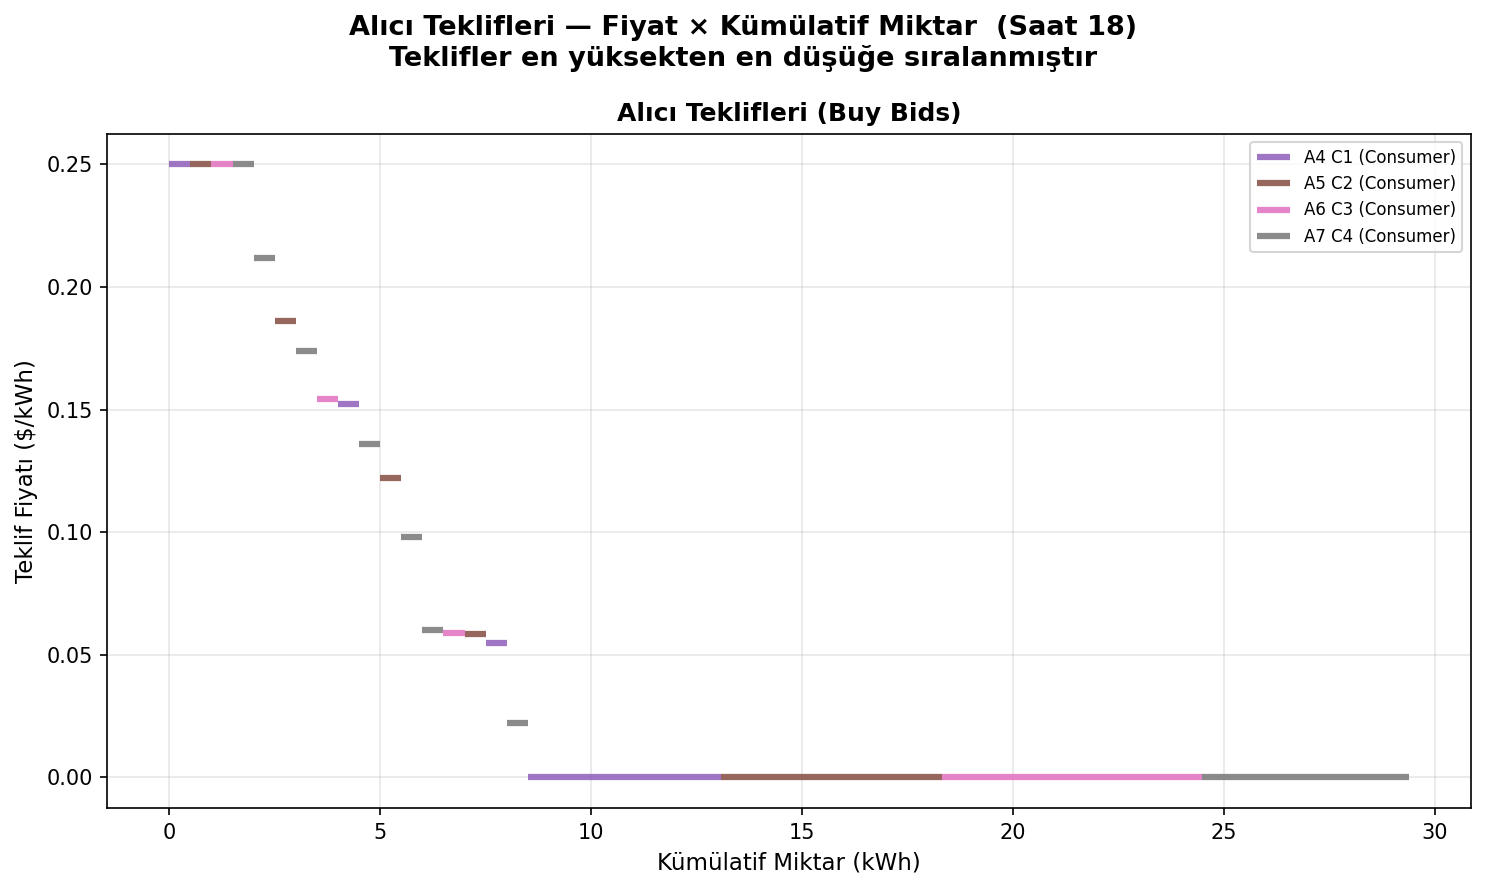
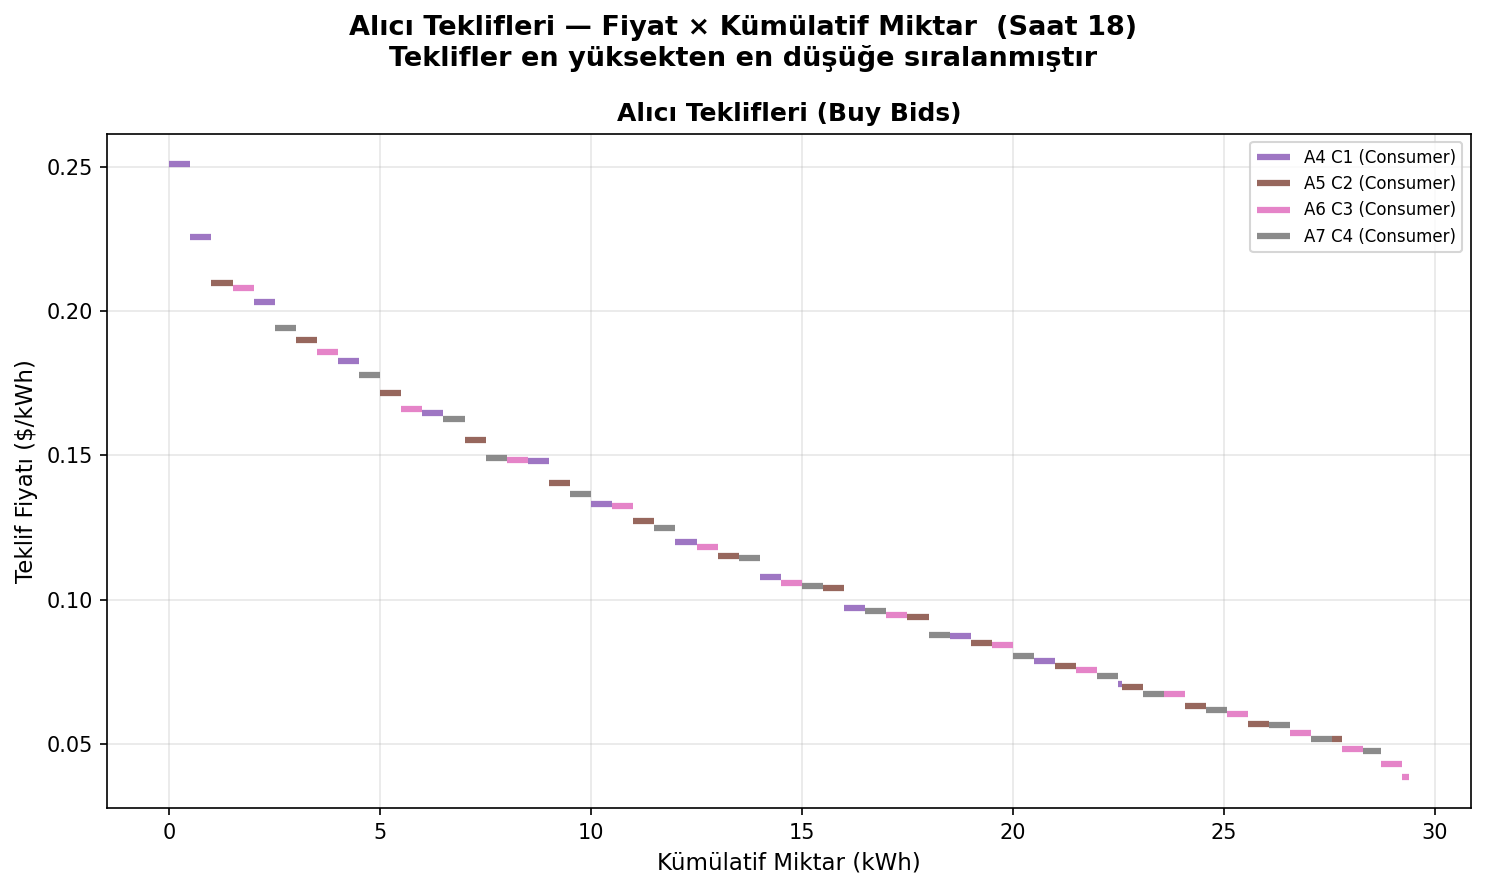
feat: implement Use-It-or-Lose-It (UILI) seller pricing model and update auction logic accordingly

diff --git a/src/agent.py b/src/agent.py
@@ -117,6 +117,25 @@ class EnergyAgent:
         """Marginal Cost: MC(q) = gamma * q + delta"""
         q = max(0.0, quantity)
         return self.mc_params.gamma * q + self.mc_params.delta
+
+    def compute_uili_price(self, quantity: float) -> float:
+        """Use-It-or-Lose-It (UILI) seller pricing.
+
+        Ters exponential fiyat modeli — üretim miktarıyla fiyat düşer:
+
+            P(Q) = FiT + (ToU - FiT) * exp(-lambda * Q)
+
+        - Q = 0  → P = ToU  (hiç üretim baskısı yok, maksimum fiyat)
+        - Q → ∞  → P → FiT  (yüksek üretim baskısı, taban fiyata yaklaşır)
+
+        Satıcı çok ürettiğinde fiyatını düşürmek zorunda kalır;
+        aksi hâlde eşleşemeyip FiT'ten bile daha az kazanır.
+        """
+        q = max(0.0, quantity)
+        fit = getattr(self.config, "fit_price", 0.06)
+        tou = getattr(self.config, "tou_price", 0.28)
+        lam = getattr(self.config, "lambda_uili", 0.4)
+        return fit + (tou - fit) * math.exp(-lam * q)
     
     def decide_action(self, obs: Observation) -> Action:
         """Heuristic decision-making based on net energy position."""
@@ -136,9 +155,10 @@ class EnergyAgent:
                     is_emergency=False,
                 )
         elif market_quantity < -0.01:
-            # SELLER - Agent has surplus
+            # SELLER - Agent has surplus → Use-It-or-Lose-It pricing
+            # Fiyat üretim miktarıyla ters orantılı: çok üretim → ucuz fiyat
             sell_quantity = abs(market_quantity)
-            ask_price = self.compute_mc(sell_quantity)
+            ask_price = self.compute_uili_price(sell_quantity)
             order = Order(
                 agent_id=self.agent_id,
                 price=ask_price,
@@ -197,7 +217,8 @@ class EnergyAgent:
         q = self._auction_units_traded * self._auction_unit_size
         if self._auction_role == 'buyer':
             return self.compute_mb(q, hour=self._current_hour)
-        return self.compute_mc(q)
+        # UILI: seller reservation price = UILI curve at cumulative qty traded so far
+        return self.compute_uili_price(q)
 
     def auction_initial_offer(self, margin: float) -> Optional[float]:
         v = self.auction_valuation()

diff --git a/src/config.py b/src/config.py
@@ -83,6 +83,13 @@ class SimConfig:
     # Sellers can price up to ToU since buyers save vs. grid.
     tou_price: float = 0.28   # ~28 cent/kWh (typical peak ToU rate)
 
+    # --- Use-It-or-Lose-It (UILI) seller pricing ---
+    # P(Q) = FiT + (ToU - FiT) * exp(-lambda_uili * Q)
+    # At Q=0  → price = ToU  (maximum, no production pressure)
+    # At Q→∞  → price → FiT (floor, high production forces cheap bids)
+    # Higher lambda_uili = faster price decay with quantity.
+    lambda_uili: float = 0.2   # decay rate (1/kWh); tune per scenario
+
     @property
     def n_agents(self) -> int:
         return self.n_producers + self.n_consumers
